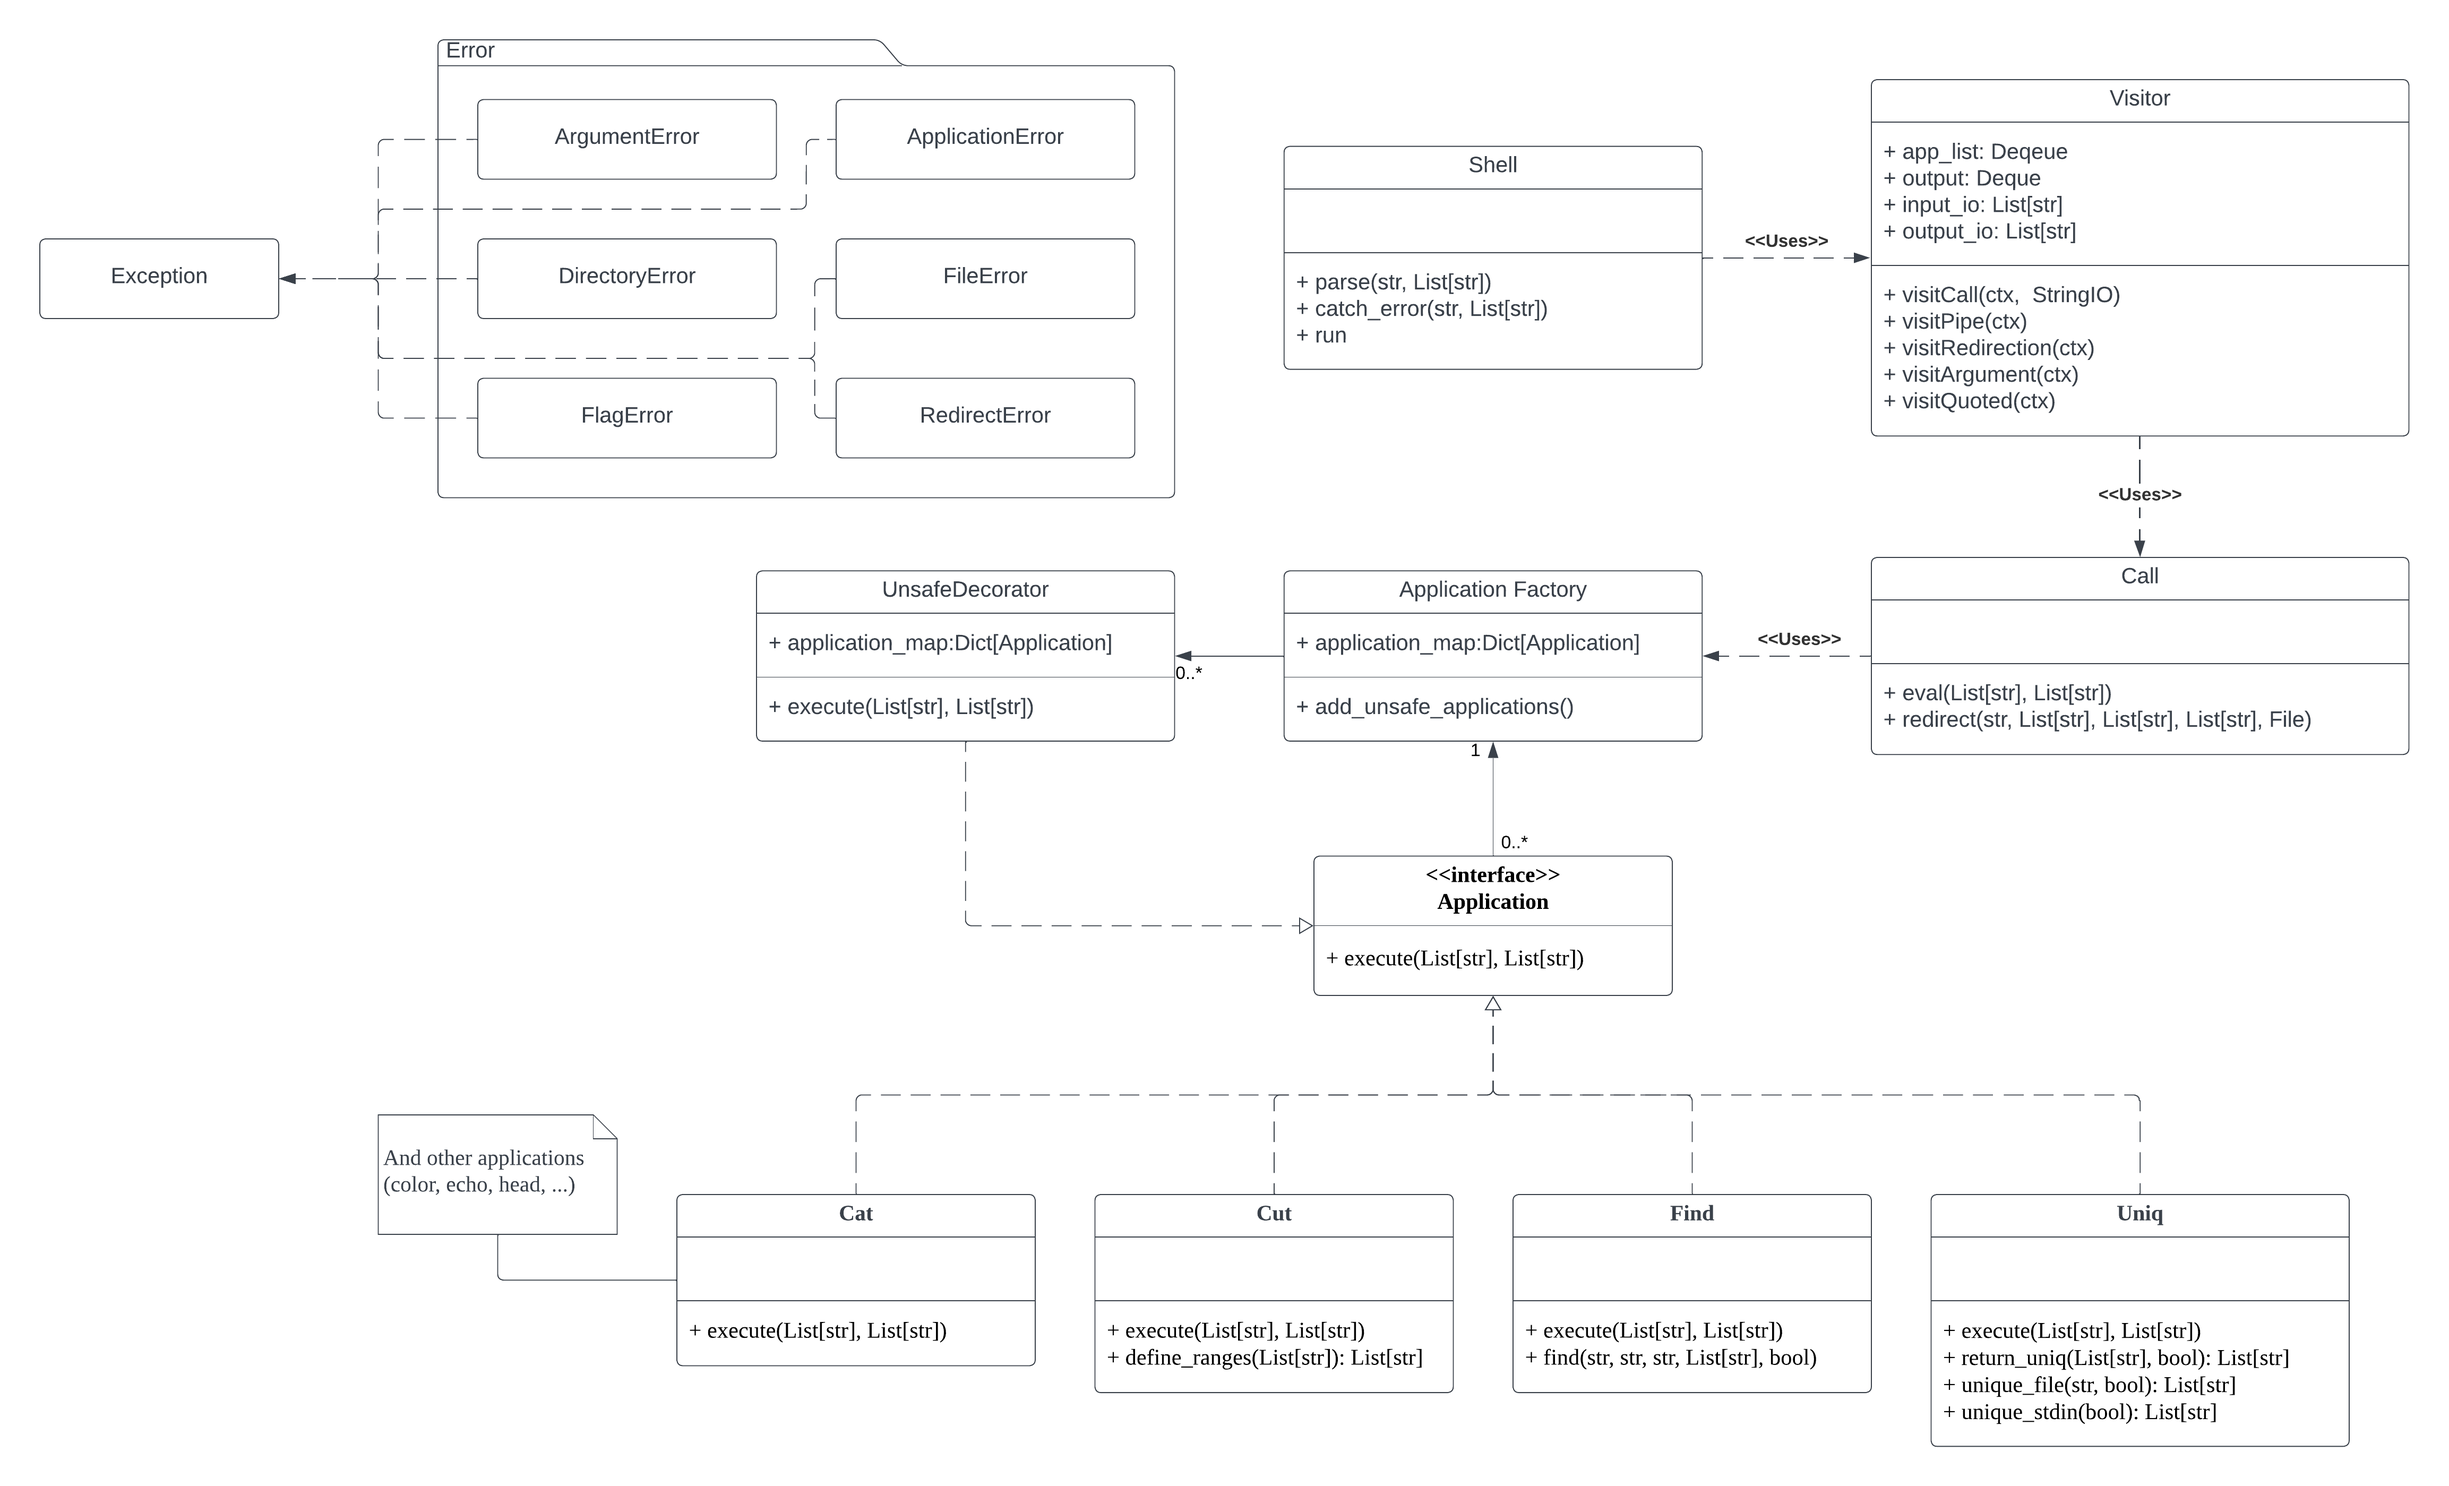
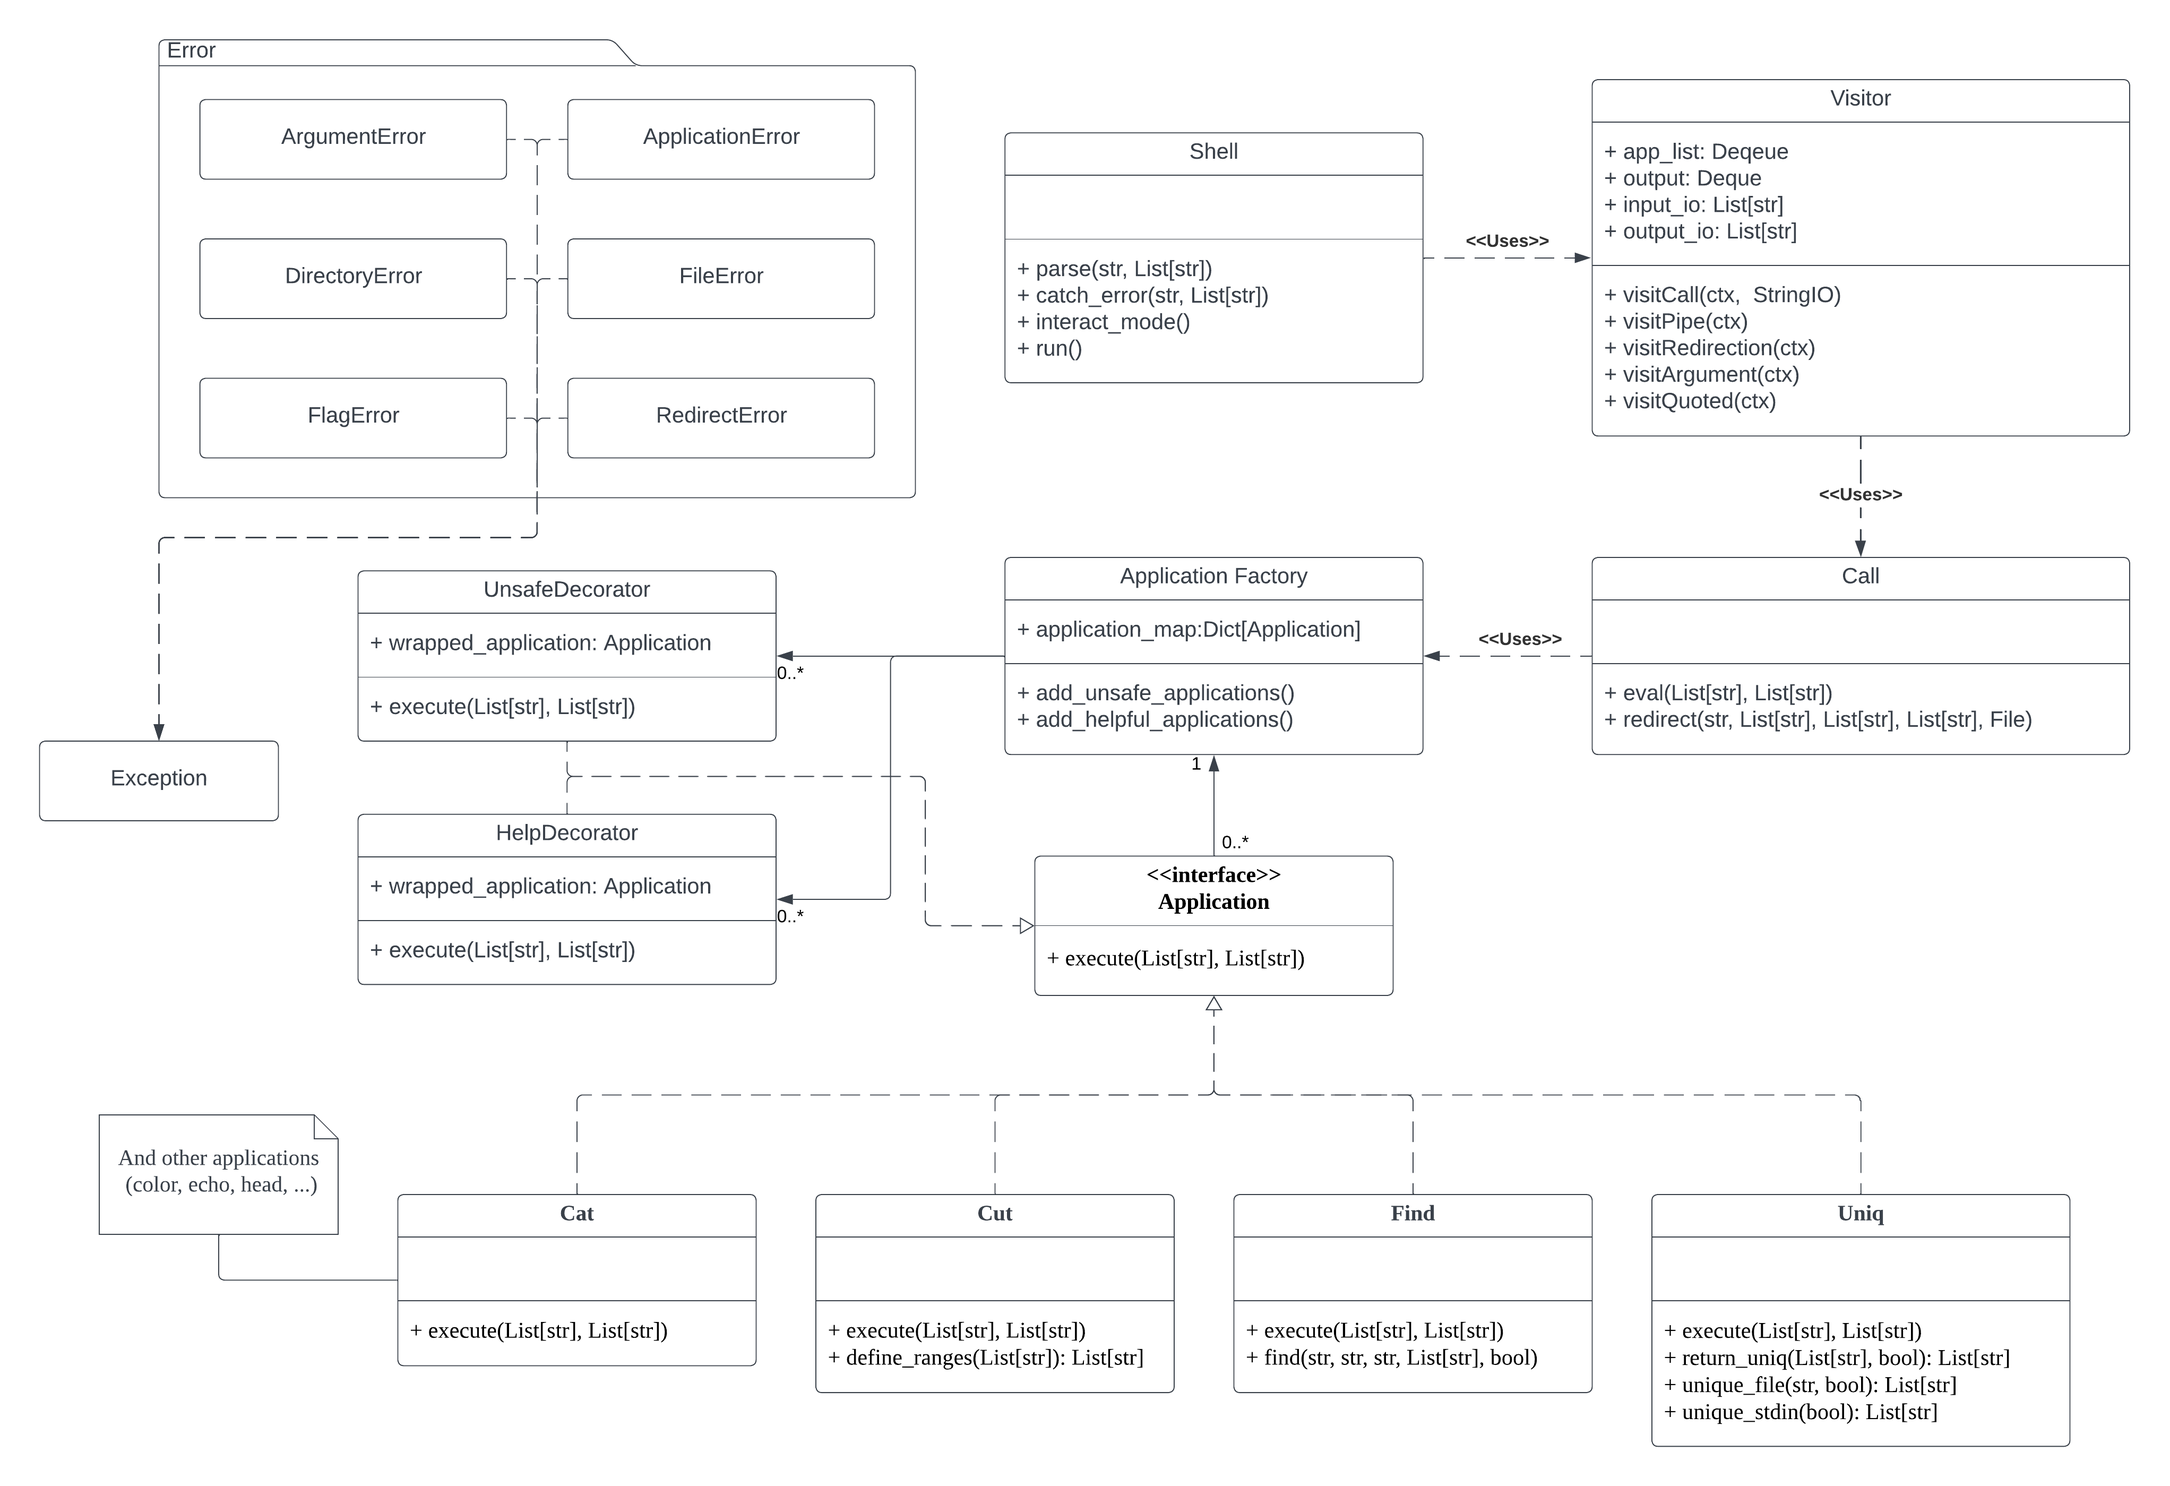
[FEAT][CHORE]: Unit test automation + Cleanup (#52)
* [FEAT]: Automated Unit tests

* [FIX]: Automated Test Fix

* [FIX]: Minor Fix

* [FIX]: Namefix

* [REFAC]: Pipe testcase

* [CHORE]: UML Diagram Update

diff --git a/test/test_parser/test_parse.py b/test/test_parser/test_parse.py
@@ -1,26 +1,9 @@
-import tempfile
 import unittest
-import os
-from pathlib import Path
-from shell import parse, catch_error
-from error import ArgumentError
+from shell import parse
 from parameterized import parameterized
 
 
 class TestParse(unittest.TestCase):
-    def setup(self, contents):
-    #     self.test_dir = tempfile.TemporaryDirectory()
-    #     self.temp_path = Path(self.test_dir.name)
-    #     self.test_file = []
-    #     for i in range(len(contents)):
-    #         self.test_file.append(str(self.temp_path) + f"/test-{i}.txt")
-    #         with open(self.test_file[i], "w") as f:
-    #             f.write(contents[i])
-        return []
-
-    # def teardown(self):
-    #     self.test_dir.cleanup()
-
     @parameterized.expand(
         # Testing Edge Cases
         [
@@ -43,7 +26,5 @@ class TestParse(unittest.TestCase):
         ]
     )
     def test_quotation_cases(self, commandline, expected):
-        out = self.setup([])
         out = parse(commandline)
         self.assertEqual(''.join(out).rstrip(), expected)
-        # self.teardown()

diff --git a/test/test_parser/test_call.py b/test/test_parser/test_call.py
@@ -47,6 +47,13 @@ class TestVisitor(unittest.TestCase):
         self.assertEqual("AAA\n", "".join(out))
         self.teardown()
 
+    def test_call_pipe(self):
+        out = self.setup(["AAA\n"])
+        expected_output = "AAA\n"
+        Call(["cat"], [], [], [out], io.StringIO("AAA\n"))
+        self.assertEqual(expected_output, "".join(out))
+        self.teardown()
+
     def test_redirect_stdout(self):
         out = self.setup([""])
         Call(["echo", "Foo", "Bar"], [], [[self.test_file[0], "w"]], [out])
